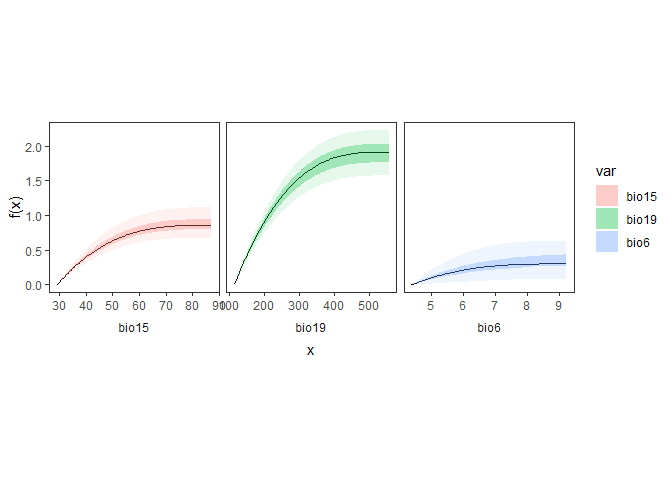
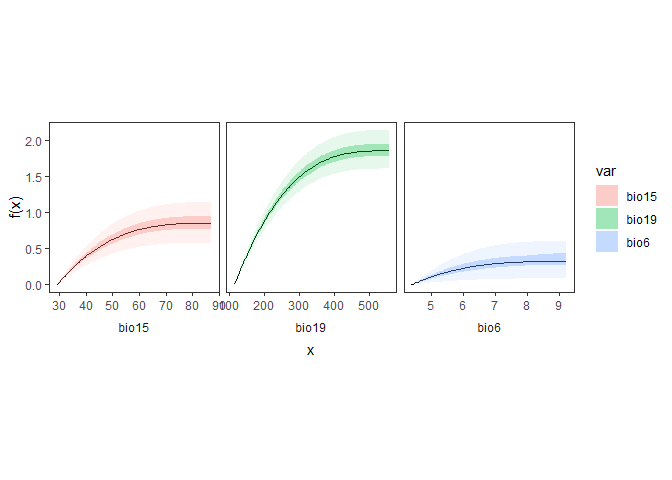
update documentation

diff --git a/README.md b/README.md
@@ -26,13 +26,11 @@ The package `gdmmTMB` was designed primarily for the analysis of
 ecological datasets where a set of environmental variables is used to
 explain variability in species composition.
 
-We start with two matrices:
+For this example, we use two datasets available as part of the `gdm`
+package. We start with two matrices:
 
 - `sp`: A community matrix (site x species)
 - `env`: A matrix of environmental covariates.
-
-For this example, we use two datasets available as part of the `gdm`
-package.
 
 ``` r
 library(tidyverse)
@@ -78,7 +76,7 @@ number of unshared ($b_i, b_j$) and shared ($a_{ij}$) species.
 
 By specifying a binomial distribution, the Jaccard dissimilarity index
 is modelled as the probability $\pi$ that a randomly chosen species from
-the combined species pool ($2a_{ij} + b_i + b_j$) is not shared between
+the combined species pool ($a_{ij} + b_i + b_j$) is not shared between
 observations $i$ and $j$.
 
 ### Model summary
@@ -103,16 +101,16 @@ summary(m)
     ## --------------------------------- Coeff. Table --------------------------------- 
     ## 
     ##                    Estimate  Std.Err.      2.5%       50%     97.5% pseudo-Z
-    ## diss: isp(bio6)1  3.169e-01 1.453e-01 3.586e-02 3.036e-01 6.294e-01   2.1807
-    ## diss: isp(bio6)2  1.353e-02 3.924e-02 1.017e-08 1.448e-08 1.475e-01   0.3448
-    ## diss: isp(bio6)3  1.274e-02 4.265e-02 1.000e-08 1.055e-08 1.547e-01   0.2987
-    ## diss: isp(bio15)1 8.693e-01 1.232e-01 6.749e-01 8.602e-01 1.111e+00   7.0576
-    ## diss: isp(bio15)2 1.064e-08 1.627e-09 1.000e-08 1.003e-08 1.398e-08   6.5362
-    ## diss: isp(bio15)3 1.006e-08 1.904e-10 1.000e-08 1.000e-08 1.038e-08  52.8295
-    ## diss: isp(bio19)1 1.897e+00 1.808e-01 1.571e+00 1.913e+00 2.224e+00  10.4934
-    ## diss: isp(bio19)2 1.008e-08 1.870e-10 1.000e-08 1.000e-08 1.071e-08  53.9203
-    ## diss: isp(bio19)3 1.004e-08 1.510e-10 1.000e-08 1.000e-08 1.034e-08  66.4852
-    ## (Intercept)       8.668e-01 7.342e-02 7.332e-01 8.637e-01 9.932e-01  11.8061
+    ## diss: isp(bio6)1  3.217e-01 1.355e-01 8.045e-02 3.259e-01 6.025e-01   2.3740
+    ## diss: isp(bio6)2  1.341e-02 4.014e-02 1.010e-08 1.672e-08 1.598e-01   0.3340
+    ## diss: isp(bio6)3  1.750e-02 4.444e-02 1.000e-08 1.109e-08 1.448e-01   0.3937
+    ## diss: isp(bio15)1 8.631e-01 1.443e-01 5.817e-01 8.552e-01 1.143e+00   5.9792
+    ## diss: isp(bio15)2 1.210e-08 1.360e-08 1.000e-08 1.003e-08 1.341e-08   0.8896
+    ## diss: isp(bio15)3 1.246e-08 1.990e-08 1.000e-08 1.000e-08 1.253e-08   0.6259
+    ## diss: isp(bio19)1 1.876e+00 1.440e-01 1.609e+00 1.860e+00 2.143e+00  13.0284
+    ## diss: isp(bio19)2 1.412e-08 3.178e-08 1.000e-08 1.000e-08 1.240e-08   0.4442
+    ## diss: isp(bio19)3 1.627e-08 5.185e-08 1.000e-08 1.000e-08 2.131e-08   0.3139
+    ## (Intercept)       8.789e-01 7.069e-02 7.537e-01 8.739e-01 1.012e+00  12.4331
     ##                   pseudo-Pval    
     ## diss: isp(bio6)1       < 0.01 ***
     ## diss: isp(bio6)2       < 0.01 ***
@@ -132,8 +130,8 @@ summary(m)
     ## signif. codes: '***' <0.001 '**' <0.01 '*' <0.05 '.' <0.1 
     ## ---
     ## 
-    ## Marginal log-likelihood (average):  -27784.1 
-    ## AIC:  55588.2 , AICc:  55588.26 , BIC:  55652.03 
+    ## Marginal log-likelihood (average):  -27848.53 
+    ## AIC:  55717.06 , AICc:  55717.11 , BIC:  55780.88 
     ## 
     ## --------------------------------------------------------------------------------
 
@@ -182,5 +180,5 @@ do.call(rbind, f_x) %>% ggplot(aes(fill = var)) +
 
 The plot shows the relationship between each variable ($x$) and the same
 variable after applying the monotonic, non-linear transformation
-($f(x)$). Steeper increases in $f(X)$ correspond to fast community
+($f(x)$). Steeper increases in $f(x)$ correspond to fast community
 change.
